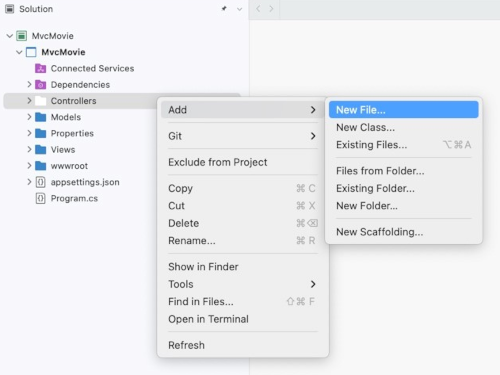
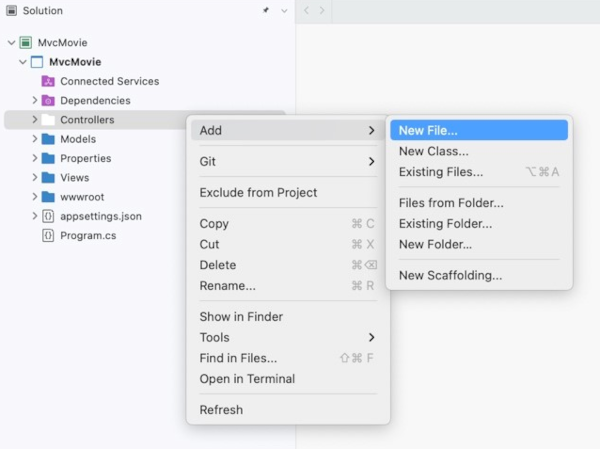
Scaled screenshots

diff --git a/aspnetcore/tutorials/first-mvc-app/adding-controller.md b/aspnetcore/tutorials/first-mvc-app/adding-controller.md
@@ -67,7 +67,7 @@ Select **ASP.NET Core** and **Controller Class**.
 
 Name the controller **HelloWorldController**.
 
-![Add MVC controller and name it](~/tutorials/first-mvc-app-mac/adding-controller/_static/ac.png)
+![Add MVC controller and name it](~/tutorials/first-mvc-app-mac/adding-controller/_static/ac_MacVS22.png)
 
 ---
 
